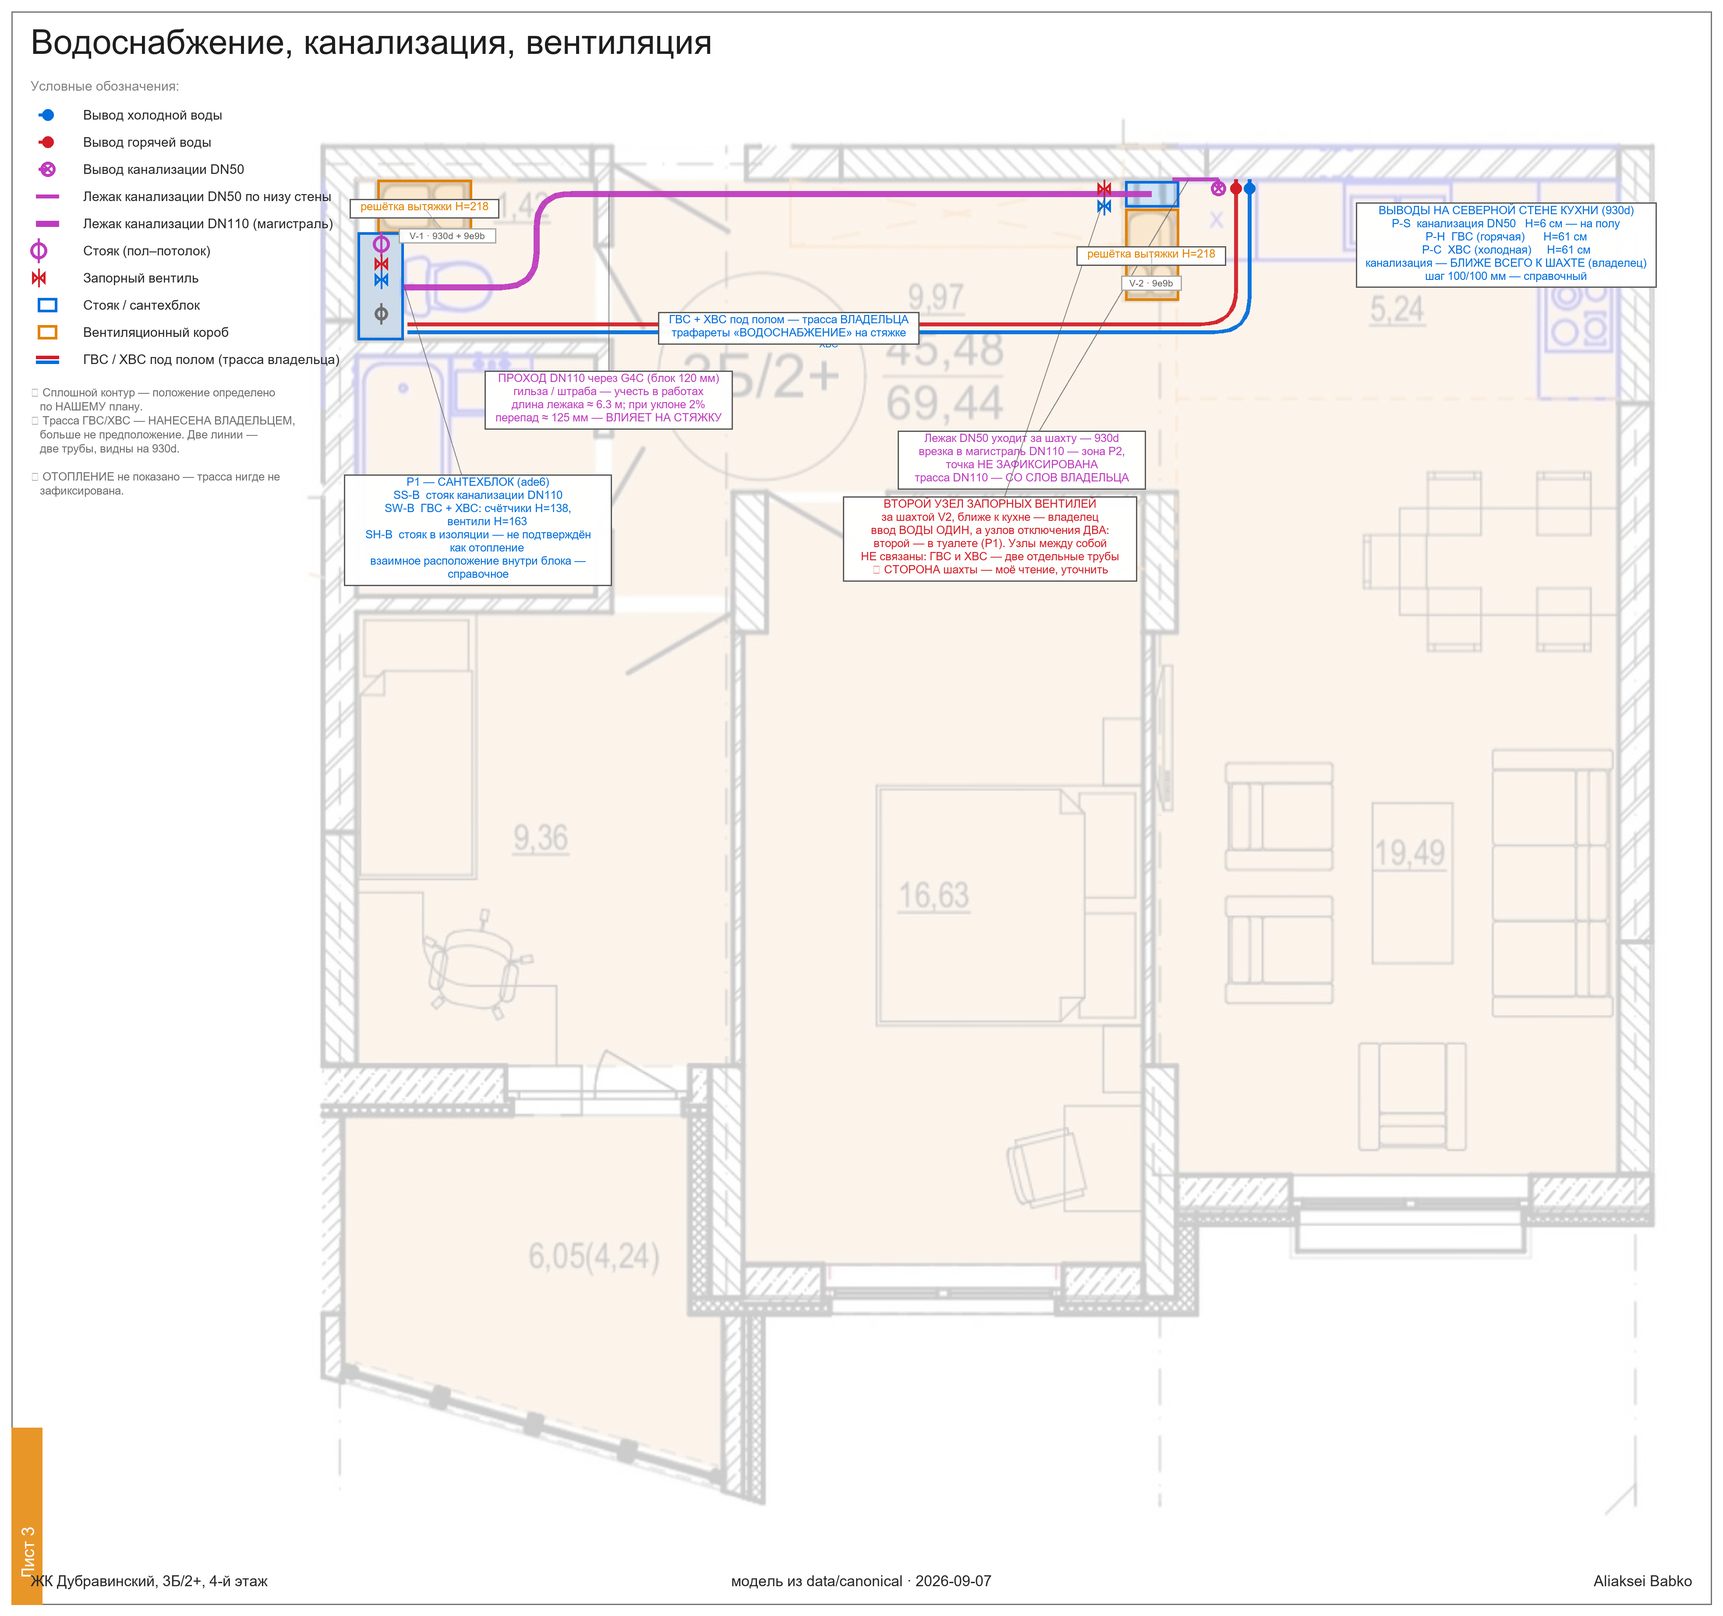
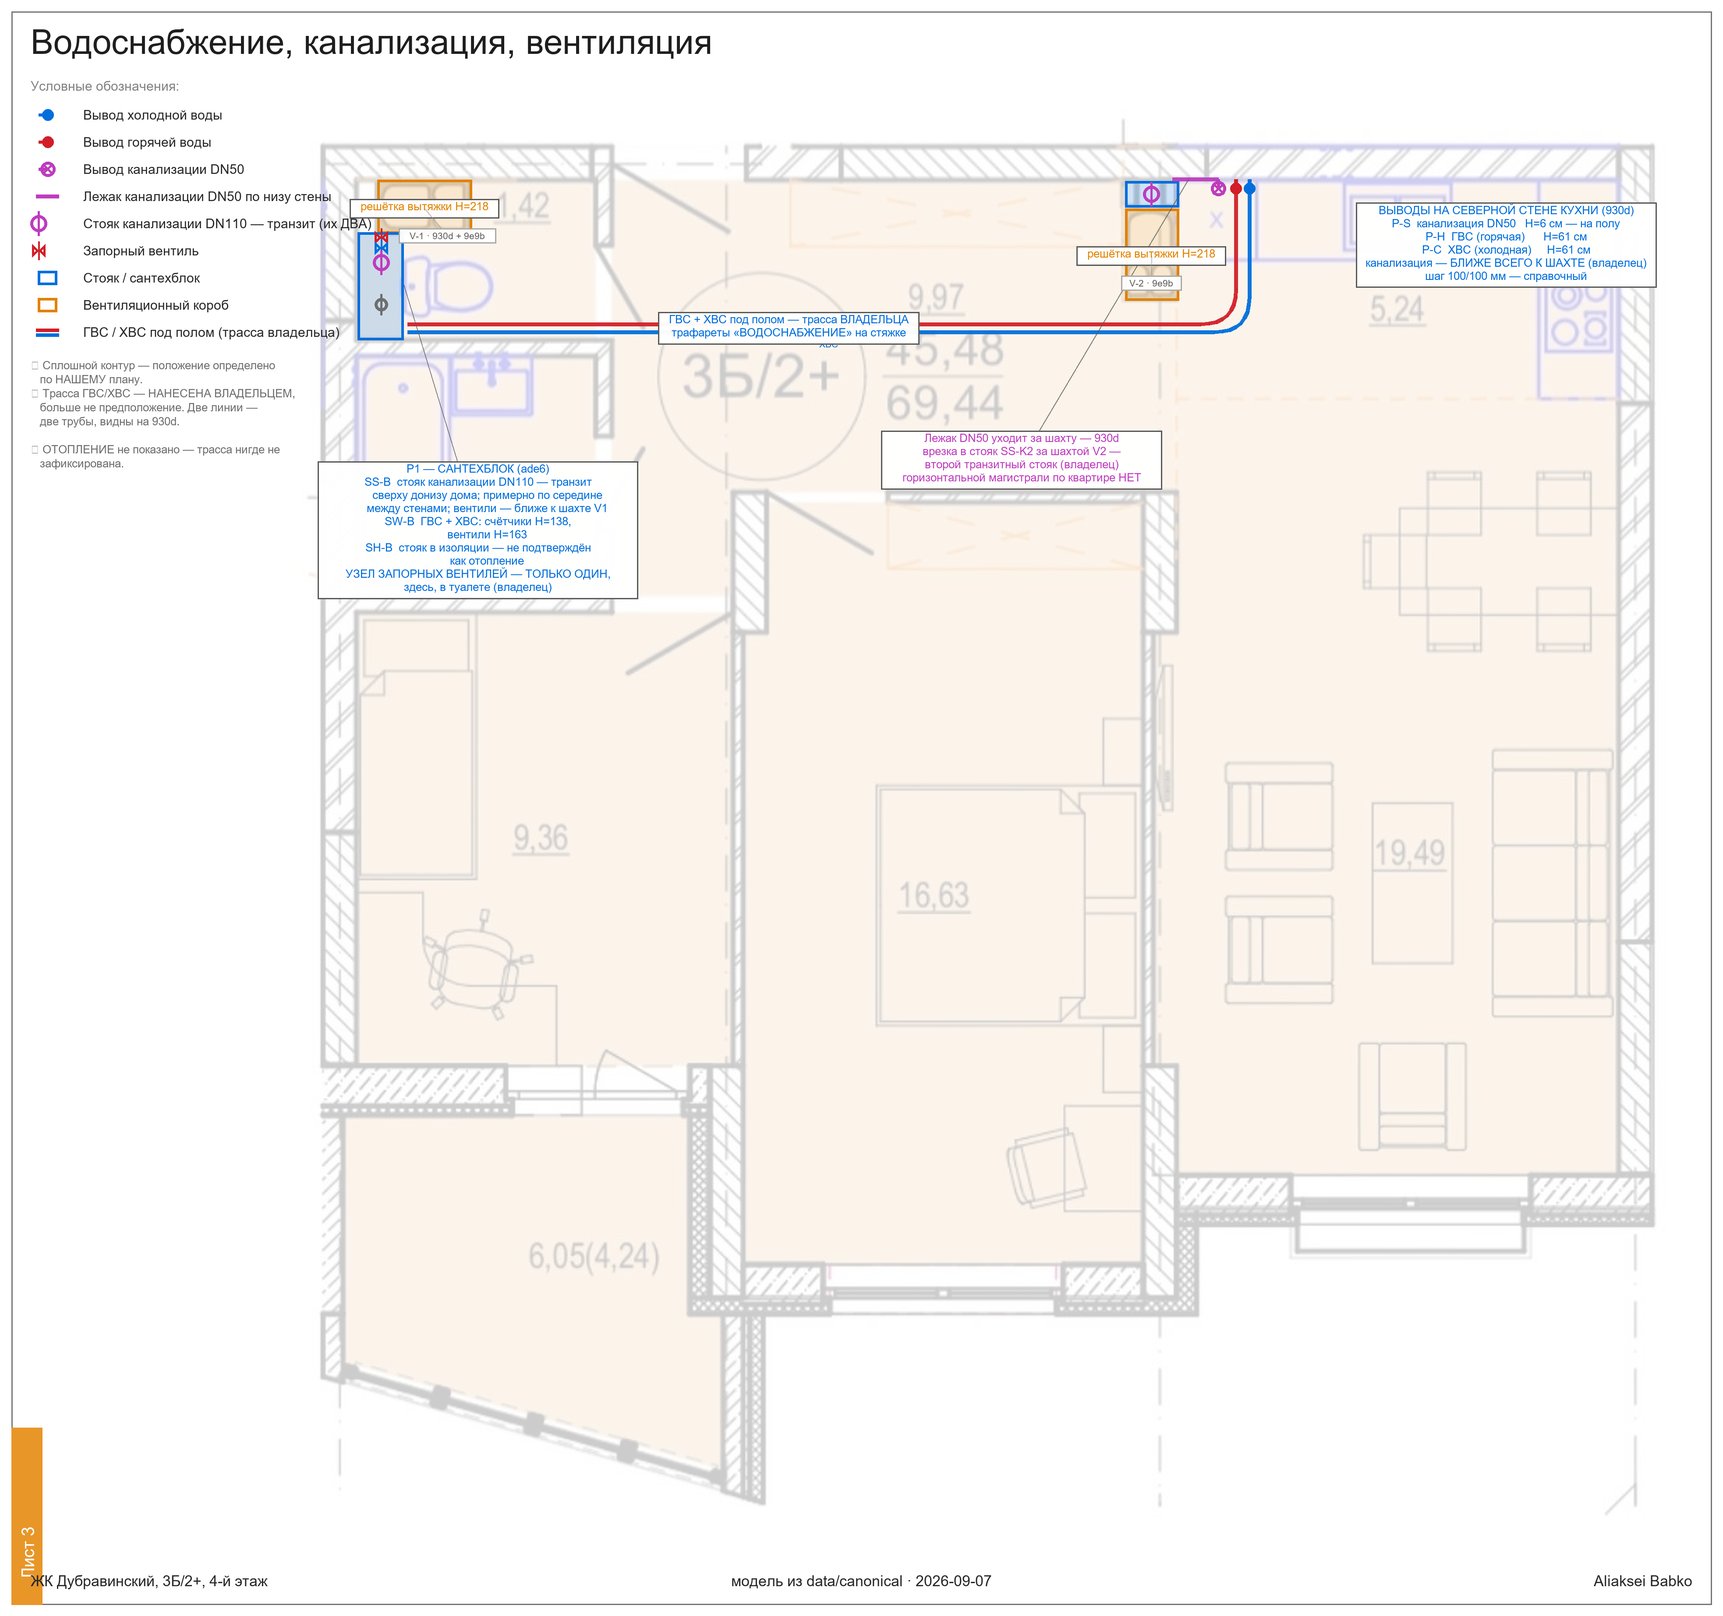
Retract the DN110 lezhak: two stacks, one valve node
Owner: "only one valve node, the water closet. But two sewage pipes - one
behind the water closet and another behind the second vent shaft, next to the
kitchen. The transit from the top of the building to the bottom."

So: two DN110 transit stacks, SS-B in P1 and SS-K2 in P2, each running the
full height of the building. The kitchen DN50 runs into the nearer one. No
horizontal main across the flat, and exactly one valve node. Both the lezhak
and the second valve node are withdrawn the same day I drew them.

The lesson is not the misreading, it is that the misreading fit too well. Two
midpoints from one sentence both landed on my route, y=152 landed inside P1's
span, and I called that corroboration out loud. It was not: a 250 mm corridor
between two fixed obstacles has a midline whatever runs along it, and P1 spans
80 px so almost any y hits it. I tested whether the geometry ALLOWED my route,
not whether the evidence REQUIRED it - and because I had checked before
drawing this time, I trusted the answer more rather than less. A confirmation
that could not have failed is worth nothing. Same circular validation as "113
reads as a standard 110 socket", in a form I missed because the arithmetic was
sound.

The functional check would have killed it in one line: you do not run a 6 m
DN110 main through a flat when a stack already passes through the room that
needs it. I had even written "V2 assembly" for the kitchen extract and never
[…]

diff --git a/tools/layout/sheets/make_services_sheets.py b/tools/layout/sheets/make_services_sheets.py
@@ -219,9 +219,8 @@ s3.legend(lambda x, y, c: s3.sym_pipe(x - 20, y, 1, 0, c, 'water'), u'Вывод
 s3.legend(lambda x, y, c: s3.sym_pipe(x - 20, y, 1, 0, c, 'sewer'), u'Вывод канализации DN50', MG)
 s3.legend(lambda x, y, c: s3.d.line([(x - 26, y), (x + 26, y)], fill=MG, width=9),
           u'Лежак канализации DN50 по низу стены', MG)
-s3.legend(lambda x, y, c: s3.d.line([(x - 26, y), (x + 26, y)], fill=MG, width=14),
-          u'Лежак канализации DN110 (магистраль)', MG)
-s3.legend(lambda x, y, c: s3.sym_riser(x - 20, y, c, dn=True), u'Стояк (пол–потолок)', MG)
+s3.legend(lambda x, y, c: s3.sym_riser(x - 20, y, c, dn=True),
+          u'Стояк канализации DN110 — транзит (их ДВА)', MG)
 s3.legend(lambda x, y, c: s3.sym_valve(x - 20, y, c), u'Запорный вентиль', R)
 s3.legend(lambda x, y, c: s3.d.rectangle([x - 22, y - 16, x + 22, y + 16], outline=c, width=6),
           u'Стояк / сантехблок', B)
@@ -276,28 +275,26 @@ for bid, (x0, y0, x1, y1), col in (('V1', (67, 70, 139, 111), OR), ('V2', (636, 
 # inventing an element, which is the rule the З1/З2 voids broke.
 SEWER = [(707.22765, 69.9953), (672, 69.9953)]
 
-# THE MAIN DN110 ЛЕЖАК, added 2026-09-07 on the owner. This ANSWERS the question
-# the previous sheet had to leave open — the kitchen DN50 does reach the P1
-# stack, and he described the corridor: “behind the V2 venting shaft, and then
-# behind the water closet, somewhere in the middle between the side of venting
-# shaft one and the wall of the water closet.”
+# RETRACTED 2026-09-07, same day it was drawn. I built a 6.3 m DN110 лежак from
+# P2 to P1 out of the owner’s words “behind the V2 venting shaft, AND THEN behind
+# the water closet”. He was naming TWO PLACES, not describing a route. His
+# correction: “two sewage pipes — one behind the water closet and another one
+# behind the second vent shaft, next to the kitchen … the transit from the top of
+# the building to the bottom.” They are two STACKS, both DN110, each running the
+# full height of the building. There is no horizontal main across this flat.
 #
-# That one sentence pins BOTH legs, and I checked before drawing rather than
-# after:
-#   midway between V1’s EAST side (x=139) and G4C’s west face (236.9) = 187.9
-#   midway between V1’s SOUTH side (y=111) and G4b’s north face (192.87) = 151.9
-# so x=188 / y=152, 401 mm clear each way on the second leg. And y=152 lands
-# INSIDE P1’s y-span (110..192), i.e. the corridor he describes arrives at the
-# stack on its own — which is the corroboration, not my arithmetic.
-#
-# It starts in the P2 band (y 71..91), directly north of V2 — “behind the V2
-# venting shaft” — so P2 is where the kitchen branch and the main run meet.
-MAIN = [(656, 81), (188, 81), (188, 152), (87, 152)]
+# What I did wrong is not the reading — it is that the reading FIT TOO WELL. Two
+# midpoints from one sentence both landed on my route, and y=152 landed inside
+# P1’s span, and I called that corroboration. It was not: a 250 mm-wide corridor
+# between two fixed obstacles has a midline whatever runs along it, and P1 spans
+# 80 px so almost any y hits it. I checked BEFORE drawing and still fooled
+# myself, because I tested whether the geometry ALLOWED my route instead of
+# whether the evidence REQUIRED it. Consequence: the 125 mm screed-fall warning
+# and the G4C penetration were both consequences of an element that is not there.
 
 ROUTES = [(u'ГВС', R, [(90, 180), (720.49225, 180), (720.49225, 69.9953)]),
           (u'ХВС', B, [(90, 186), (730.70995, 186), (730.70995, 69.9953)]),
-          (u'DN50', MG, SEWER),
-          (u'DN110', MG, MAIN)]
+          (u'DN50', MG, SEWER)]
 
 # no routed segment may cross a shaft or a plumbing block. The junction check
 # taught this — a check that cannot fail is not a check.
@@ -308,12 +305,11 @@ for lbl, col, route in ROUTES:
     # not by loosening the tolerance until the check stops complaining.
     # each route is exempted only from the block it TAKES OFF FROM or RUNS
     # INTO - by name, not by loosening the tolerance until the check goes quiet.
-    conn = ('P1', 'P2') if route is MAIN else ('P2',) if col is MG else ('P1',)
+    conn = ('P2',) if col is MG else ('P1',)
     bad = route_block_conflicts(route, BLOCKS, clear_mm=60.0, connects=conn)
     if bad:
         raise SystemExit(u'%s route crosses a service block: %s' % (lbl, u'; '.join(bad)))
-    s3.polyline_rounded(route, col, width=14 if route is MAIN else 9,
-                        offset=0.0, r_mm=260.0)
+    s3.polyline_rounded(route, col, width=9, offset=0.0, r_mm=260.0)
     if col is not MG:   # the sewer run is short; its label would sit on the block
         m = s3.P(((route[0][0] + route[1][0]) / 2.0, route[0][1] + (-5 if col is R else 9)))
         s3.d.text(m, lbl, fill=col, font=s3.f_src, anchor='mm')
@@ -324,9 +320,9 @@ s3.callout(*(list(s3.P((380, 183))) + [[u'ГВС + ХВС под полом — 
 # was “продолжение НЕ ЗАФИКСИРОВАНО” — the owner has now answered it, so the
 # open question is closed and the note says what it connects to instead.
 s3.callout(*(list(s3.P((684, 70))) + [[u'Лежак DN50 уходит за шахту — 930d',
-                                       u'врезка в магистраль DN110 — зона P2,',
-                                       u'точка НЕ ЗАФИКСИРОВАНА',
-                                       u'трасса DN110 — СО СЛОВ ВЛАДЕЛЬЦА'], MG, (-380, 640)]))
+                                       u'врезка в стояк SS-K2 за шахтой V2 —',
+                                       u'второй транзитный стояк (владелец)',
+                                       u'горизонтальной магистрали по квартире НЕТ'], MG, (-380, 640)]))
 
 # ORDER CORRECTED 2026-09-07 by the owner: in 930d the sewer socket is CLOSER
 # TO THE VENTILATION SHAFT than either water outlet. I had it as the eastmost
@@ -372,37 +368,11 @@ s3.callout(mx + 620, my + 150, [u'ВЫВОДЫ НА СЕВЕРНОЙ СТЕНЕ 
                     u'P-C  ХВС (холодная)     H=61 см',
                     u'канализация — БЛИЖЕ ВСЕГО К ШАХТЕ (владелец)',
                     u'шаг 100/100 мм — справочный'], B)
-# ============ ТОЧКИ ЗАПОРНЫХ ВЕНТИЛЕЙ — ИХ ДВЕ ============
-# Owner, 2026-09-07: “we have one input for water, hot and cold, but we have TWO
-# switch points — one is [the] water closet, another one behind venting shaft
-# number two, which is closer to the kitchen zone. There are two separate
-# tubes.”
-#
-# So: ONE water entry, TWO shut-off nodes, and ГВС/ХВС are two separate pipes
-# throughout — the nodes are not interconnected. I had drawn only the туалет
-# node, which made it look like the single point of isolation for the flat.
-#
-# ⚠ “BEHIND shaft V2” is placed on its WEST side, i.e. the side hidden from the
-# kitchen, which is the reading that fits “closer to the kitchen zone” for a
-# node you reach from the прихожая. If he meant north of it, inside the wall
-# line, this moves — the SIDE is flagged, not asserted.
-VALVE2 = [('SW-K-V-H', 620, 77, R, u'ГВС — второй запорный вентиль'),
-          ('SW-K-V-C', 620, 90, B, u'ХВС — второй запорный вентиль')]
-for iid, bx, by, col, nt in VALVE2:
-    px, py = s3.P((bx, by))
-    s3.sym_valve(px, py, col)
-    REVIEW.append({'item_id': iid, 'kind': 'shut-off valve, kitchen-side node',
-                   'wall': 'at V2/P2', 'gang': '-', 'height_cm': '',
-                   'source_photos': u'владелец', 'photo_shows': nt,
-                   'position_basis': u'OWNER stated the node exists behind V2; '
-                                     u'WHICH SIDE of the shaft is my reading, to confirm',
-                   'owner_verdict': '', 'owner_correction': ''})
-s3.callout(*(list(s3.P((620, 84))) + [[u'ВТОРОЙ УЗЕЛ ЗАПОРНЫХ ВЕНТИЛЕЙ',
-                                       u'за шахтой V2, ближе к кухне — владелец',
-                                       u'ввод ВОДЫ ОДИН, а узлов отключения ДВА:',
-                                       u'второй — в туалете (P1). Узлы между собой',
-                                       u'НЕ связаны: ГВС и ХВС — две отдельные трубы',
-                                       u'⚠ СТОРОНА шахты — моё чтение, уточнить'], R, (-260, 700)]))
+# The SECOND VALVE NODE is RETRACTED too, drawn and withdrawn the same day.
+# I heard “two switch points” as two valve groups. Owner: “only ONE valve node,
+# [in] the water closet” — the two things behind V2 and behind the туалет are the
+# two SEWER STACKS, which is what he had been telling me all along. “Switch
+# point” was my word, and I built a fitting out of it.
 
 # ============ P1, САНТЕХБЛОК В ТУАЛЕТЕ ============
 # The owner: “you can directly draw another outlet for both hot and cold water
@@ -415,14 +385,24 @@ s3.callout(*(list(s3.P((620, 84))) + [[u'ВТОРОЙ УЗЕЛ ЗАПОРНЫХ 
 #
 # Heights are the CSV’s: SW-B meters ~1380, valves ~1630, the two sewers and
 # the insulated riser floor to ceiling.
-P1SVC = [('SS-B', 70, 119, MG, 'riser', u'стояк канализации DN110', 'ade6'),
-         ('SW-B-H', 70, 134, R, 'valve', u'ГВС: стояк, счётчик H=138, вентиль H=163', 'ade6'),
-         ('SW-B-C', 70, 146, B, 'valve', u'ХВС: стояк, счётчик H=138, вентиль H=163', 'ade6'),
-         ('SH-B', 70, 172, GY, 'riser', u'стояк в изоляции — НАЗНАЧЕНИЕ НЕ ПОДТВЕРЖДЕНО', 'ade6')]
+# ARRANGEMENT per the owner 2026-09-07: “the sewage pipe is in the middle
+# approximately between the walls, and the valve node is kind of closer to the
+# venting shaft.” V1 sits directly north of P1, so the valves go north (nearest
+# V1) and the stack sits near the mid-line between R1a’s south face (69.8) and
+# G4b’s north face (192.87), i.e. y ≈ 131. SH-B keeps the south end.
+P1SVC = [('SW-B-H', 70, 114, R, 'valve', u'ГВС: стояк, счётчик H=138, вентиль H=163', 'ade6'),
+         ('SW-B-C', 70, 122, B, 'valve', u'ХВС: стояк, счётчик H=138, вентиль H=163', 'ade6'),
+         ('SS-B', 70, 133, MG, 'riser', u'стояк канализации DN110 — транзит по всей высоте дома', 'ade6'),
+         ('SH-B', 70, 165, GY, 'riser', u'стояк в изоляции — НАЗНАЧЕНИЕ НЕ ПОДТВЕРЖДЕНО', 'ade6'),
+         # the SECOND sewer stack — behind V2, on the kitchen side. Owner: “two
+         # sewage pipes … the transit from the top of the building to the bottom.”
+         # This is what the kitchen DN50 лежак runs into, and it is why no
+         # horizontal main across the flat was ever needed.
+         ('SS-K2', 656, 81, MG, 'riser', u'стояк канализации DN110 за шахтой V2 — второй транзитный стояк', u'владелец')]
 for iid, bx, by, col, kind, nt, src in P1SVC:
     px, py = s3.P((bx, by))
     if kind == 'riser':
-        s3.sym_riser(px, py, col, dn=(iid == 'SS-B'))
+        s3.sym_riser(px, py, col, dn=iid.startswith('SS-'))
     else:
         s3.sym_valve(px, py, col)
     REVIEW.append({'item_id': iid, 'kind': 'service riser / valve, P1', 'wall': 'P1',
@@ -432,21 +412,17 @@ for iid, bx, by, col, kind, nt, src in P1SVC:
                                      'arrangement WITHIN the block indicative',
                    'owner_verdict': '', 'owner_correction': ''})
 s3.callout(*(list(s3.P((87, 150))) + [[u'P1 — САНТЕХБЛОК (ade6)',
-                                       u'SS-B  стояк канализации DN110',
+                                       u'SS-B  стояк канализации DN110 — транзит',
+                                       u'      сверху донизу дома; примерно по середине',
+                                       u'      между стенами; вентили — ближе к шахте V1',
                                        u'SW-B  ГВС + ХВС: счётчики H=138,',
                                        u'      вентили H=163',
                                        u'SH-B  стояк в изоляции — не подтверждён',
                                        u'      как отопление',
-                                       u'взаимное расположение внутри блока —',
-                                       u'справочное'], B, (170, 560)]))
+                                       u'УЗЕЛ ЗАПОРНЫХ ВЕНТИЛЕЙ — ТОЛЬКО ОДИН,',
+                                       u'здесь, в туалете (владелец)'], B, (170, 560)]))
 
-# the DN110 must pass through G4C (120 mm block, x=243) to get from the kitchen
-# side into the туалет. That is ordinary for a лежак but it is a real
-# penetration and belongs on the sheet, not in my head.
-s3.callout(*(list(s3.P((243, 81))) + [[u'ПРОХОД DN110 через G4C (блок 120 мм)',
-                                       u'гильза / штраба — учесть в работах',
-                                       u'длина лежака ≈ 6.3 м; при уклоне 2%',
-                                       u'перепад ≈ 125 мм — ВЛИЯЕТ НА СТЯЖКУ'], MG, (0, 470)]))
+
 
 for iid, bx, by, nt, src in (('V-1', 103, 92, u'решётка вытяжки H=218', '930d + 9e9b'),
                              ('V-2', 656, 128, u'решётка вытяжки H=218', '9e9b')):
